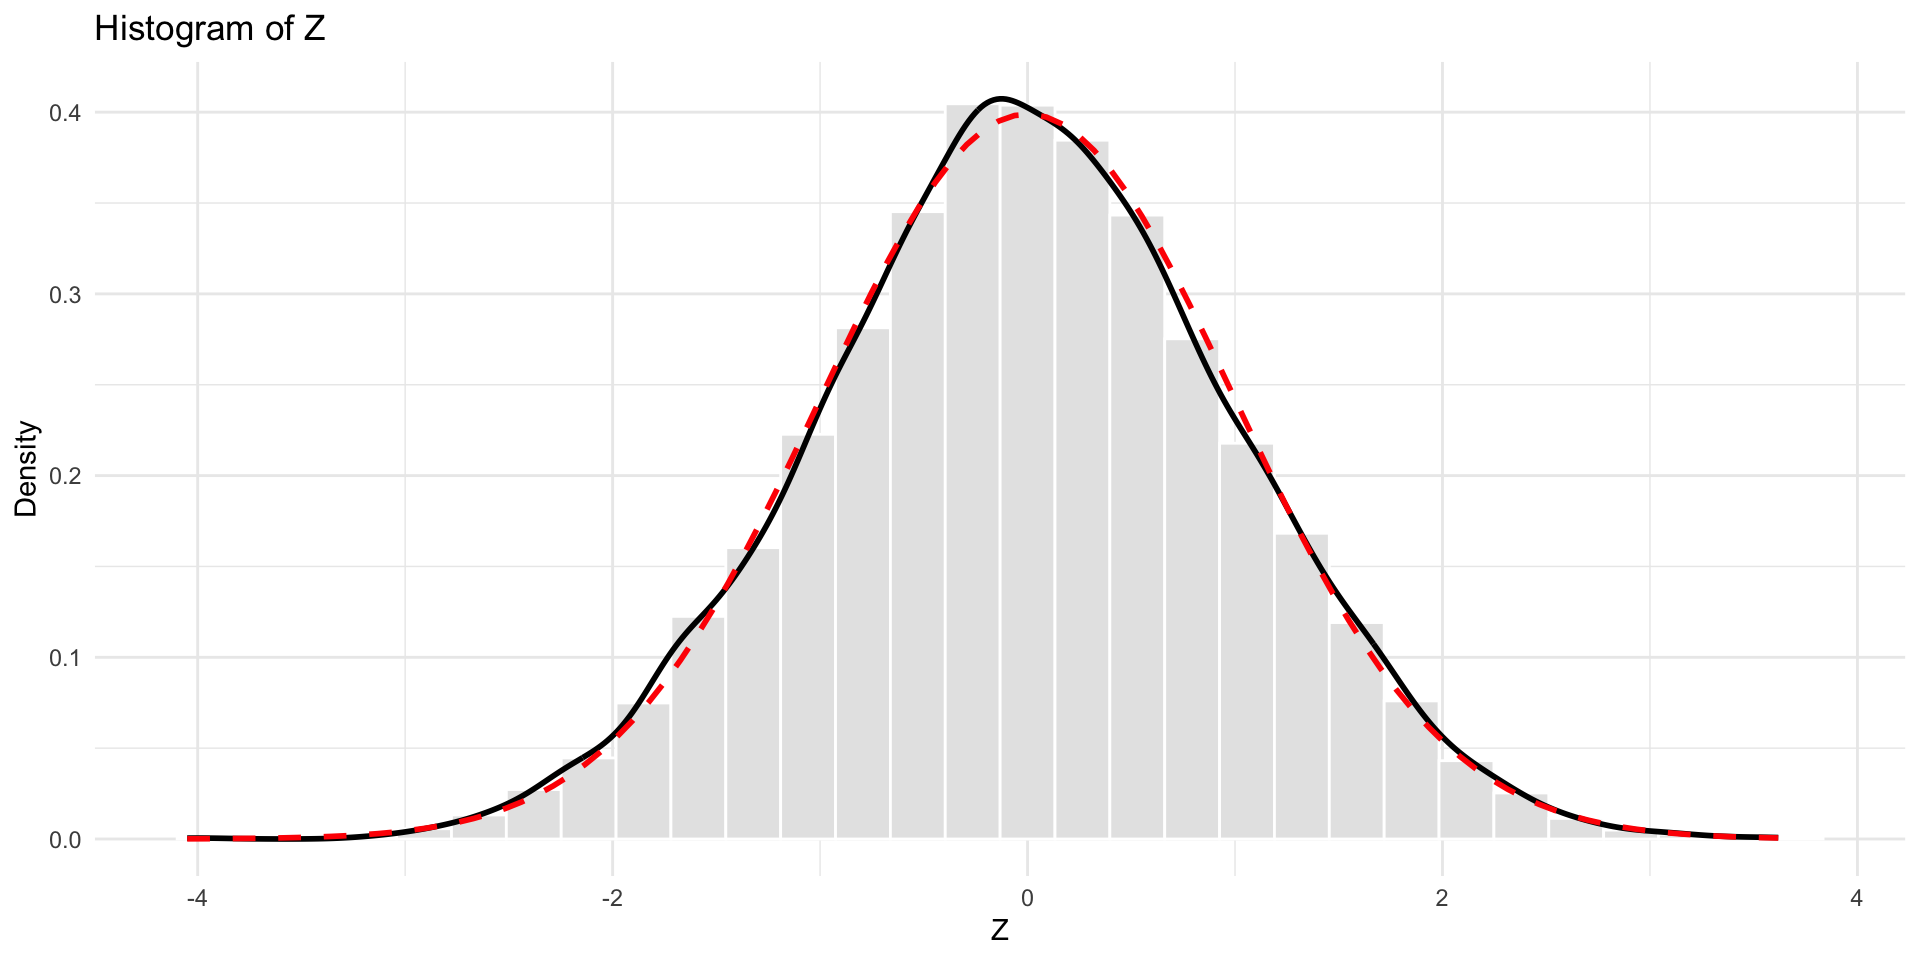
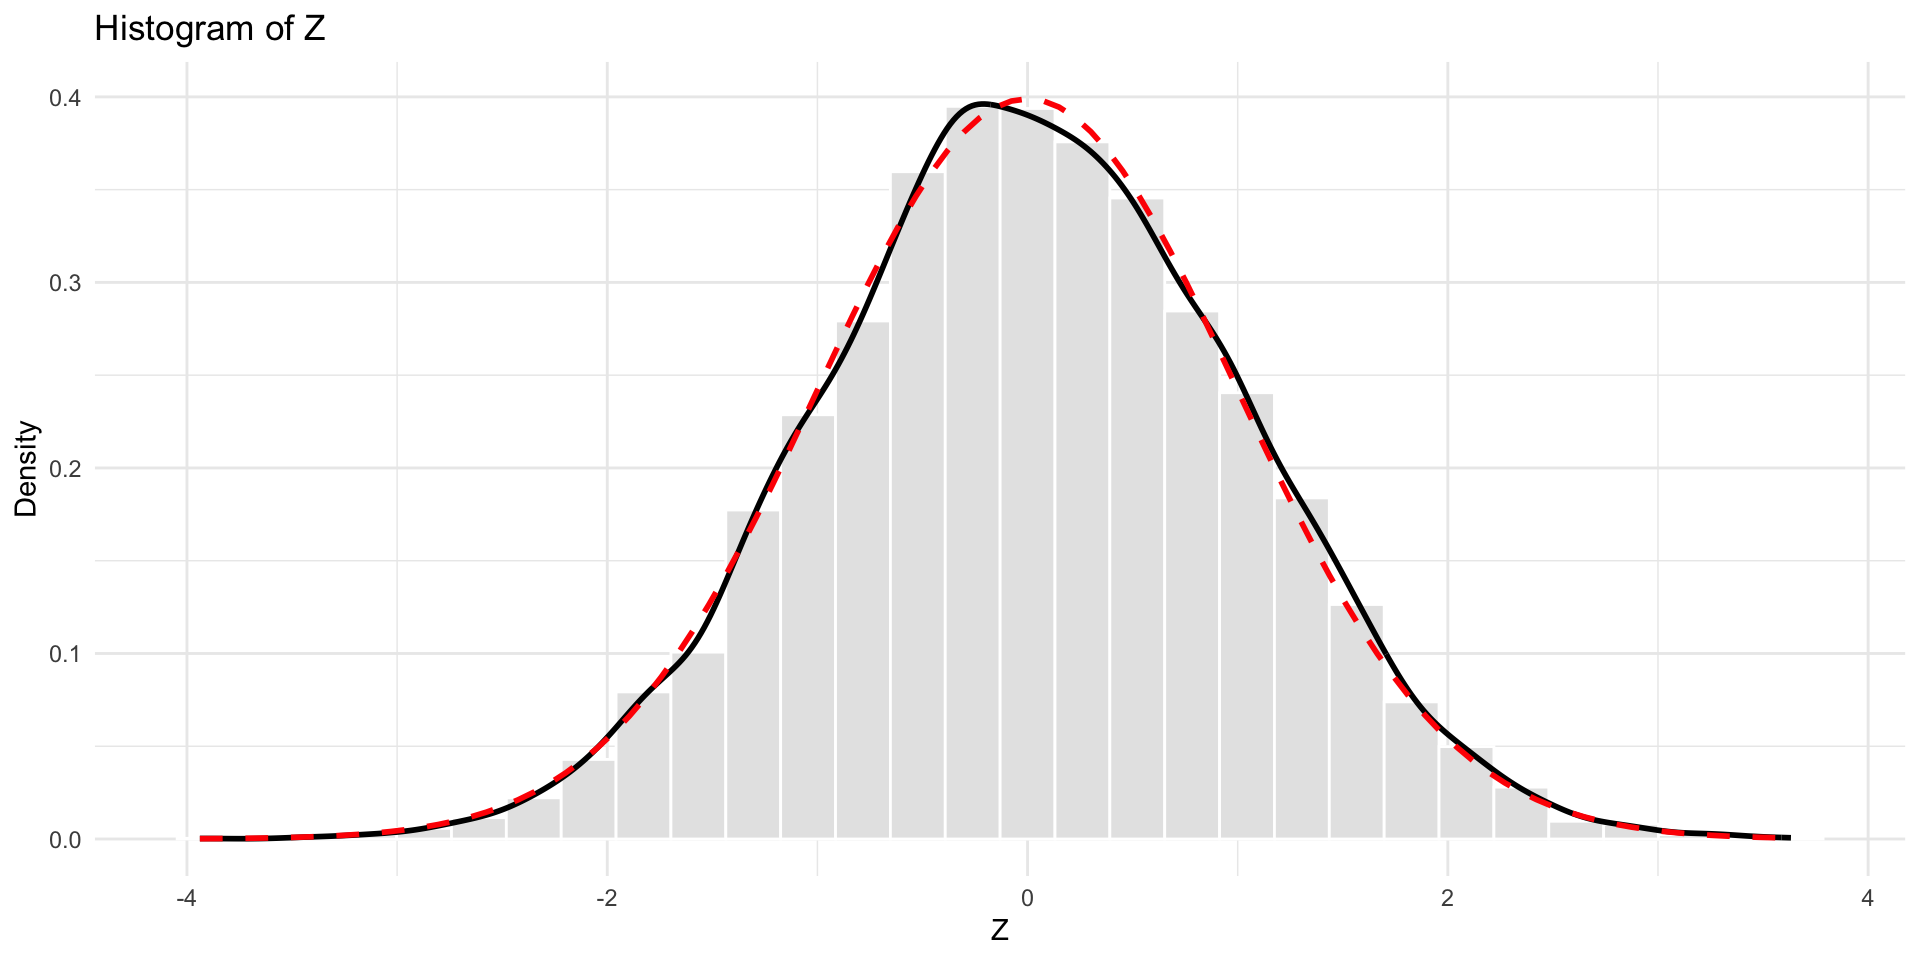
Update slides

diff --git a/docs/unit1-lect3.html b/docs/unit1-lect3.html
@@ -272,22 +272,22 @@
 <div class="code-copy-outer-scaffold"><div class="sourceCode cell-code" id="cb1"><pre class="sourceCode numberSource r number-lines code-with-copy"><code class="sourceCode r"><span id="cb1-1"><a></a>U<span class="ot">&lt;-</span><span class="fu">runif</span>(<span class="dv">10000</span>, <span class="dv">0</span>,<span class="dv">1</span>)</span>
 <span id="cb1-2"><a></a><span class="fu">head</span>(U, <span class="dv">25</span>)</span></code></pre></div><button title="Copy to Clipboard" class="code-copy-button"><i class="bi"></i></button></div>
 <div class="cell-output cell-output-stdout">
-<pre><code> [1] 0.09917466 0.19873888 0.91107296 0.18034093 0.22990421 0.01473255
- [7] 0.36201053 0.35353521 0.42074918 0.44553400 0.53369765 0.55343359
-[13] 0.56788955 0.66918928 0.51758747 0.60030990 0.96551891 0.25034516
-[19] 0.03299121 0.30767756 0.83395037 0.15374975 0.72974314 0.34551738
-[25] 0.05465245</code></pre>
+<pre><code> [1] 0.32441236 0.56355126 0.84076469 0.26797076 0.69033516 0.97579100
+ [7] 0.24214535 0.64079510 0.45448931 0.28216856 0.67918275 0.41649364
+[13] 0.83513271 0.15099610 0.92691326 0.16886967 0.53020949 0.04956552
+[19] 0.19395463 0.96597865 0.76374109 0.01728141 0.08489650 0.54245551
+[25] 0.70216479</code></pre>
 </div>
 </div>
 <div class="cell">
 <div class="code-copy-outer-scaffold"><div class="sourceCode cell-code" id="cb3"><pre class="sourceCode numberSource r number-lines code-with-copy"><code class="sourceCode r"><span id="cb3-1"><a></a>Z<span class="ot">&lt;-</span><span class="fu">qnorm</span>(U, <span class="dv">0</span>, <span class="dv">1</span>)</span>
 <span id="cb3-2"><a></a><span class="fu">head</span>(Z, <span class="dv">25</span>)</span></code></pre></div><button title="Copy to Clipboard" class="code-copy-button"><i class="bi"></i></button></div>
 <div class="cell-output cell-output-stdout">
-<pre><code> [1] -1.28626863 -0.84613443  1.34739179 -0.91406660 -0.73916235 -2.17720742
- [7] -0.35308989 -0.37579350 -0.19997726 -0.13695294  0.08456818  0.13434115
-[13]  0.17100365  0.43767563  0.04409954  0.25414933  1.81866752 -0.67340396
-[19] -1.83854311 -0.50244416  0.96989414 -1.02048290  0.61203634 -0.39745120
-[25] -1.60132522</code></pre>
+<pre><code> [1] -0.45539550  0.15997916  0.99760567 -0.61896181  0.49680060  1.97368122
+ [7] -0.69941823  0.36058486 -0.11432694 -0.57641143  0.46541470 -0.21087183
+[13]  0.97464865 -1.03217061  1.45318107 -0.95864157  0.07579646 -1.64908106
+[19] -0.86341515  1.82472397  0.71838843 -2.11344355 -1.37286923  0.10662187
+[25]  0.53063691</code></pre>
 </div>
 </div>
 </section>
@@ -365,12 +365,12 @@
 <span id="cb5-5"><a></a><span class="fu">prop.table</span>(<span class="fu">table</span>(Z1))[<span class="dv">2</span>]</span></code></pre></div><button title="Copy to Clipboard" class="code-copy-button"><i class="bi"></i></button></div>
 <div class="cell-output cell-output-stdout">
 <pre><code>     1 
-0.5046 </code></pre>
+0.5004 </code></pre>
 </div>
 <div class="code-copy-outer-scaffold"><div class="sourceCode cell-code" id="cb7"><pre class="sourceCode numberSource r number-lines code-with-copy"><code class="sourceCode r"><span id="cb7-1"><a></a><span class="fu">prop.table</span>(<span class="fu">table</span>(Z1, Z2), <span class="at">margin=</span><span class="dv">1</span>)[<span class="dv">2</span>, ]</span></code></pre></div><button title="Copy to Clipboard" class="code-copy-button"><i class="bi"></i></button></div>
 <div class="cell-output cell-output-stdout">
 <pre><code>        0         1 
-0.7439556 0.2560444 </code></pre>
+0.7396083 0.2603917 </code></pre>
 </div>
 </div>
 </section>
@@ -416,7 +416,7 @@ lm(formula = Z2 ~ Z1 + I(Z1^2))
 
 Coefficients:
 (Intercept)           Z1      I(Z1^2)  
-    -0.2794       0.3113       1.9627  </code></pre>
+   -0.06174      0.54997      1.79808  </code></pre>
 </div>
 </div>
 </section>
@@ -444,12 +444,12 @@ Coefficients:
 <span id="cb11-6"><a></a>fit <span class="ot">&lt;-</span> <span class="fu">lm</span>(Z2 <span class="sc">~</span> Z1 <span class="sc">+</span> <span class="fu">I</span>(Z1<span class="sc">^</span><span class="dv">2</span>), <span class="at">data =</span> df)</span>
 <span id="cb11-7"><a></a><span class="fu">coef</span>(fit)[<span class="st">"I(Z1^2)"</span>]</span></code></pre></div><button title="Copy to Clipboard" class="code-copy-button"><i class="bi"></i></button></div>
 <div class="cell-output cell-output-stdout">
-<pre><code>I(Z1^2) 
-1.96272 </code></pre>
+<pre><code> I(Z1^2) 
+1.798078 </code></pre>
 </div>
 <div class="code-copy-outer-scaffold"><div class="sourceCode cell-code" id="cb13"><pre class="sourceCode numberSource r number-lines code-with-copy"><code class="sourceCode r"><span id="cb13-1"><a></a><span class="fu">summary</span>(fit)<span class="sc">$</span>coefficients[<span class="st">"I(Z1^2)"</span>, <span class="st">"Std. Error"</span>]</span></code></pre></div><button title="Copy to Clipboard" class="code-copy-button"><i class="bi"></i></button></div>
 <div class="cell-output cell-output-stdout">
-<pre><code>[1] 0.1953438</code></pre>
+<pre><code>[1] 0.1558817</code></pre>
 </div>
 </div>
 </section>
@@ -482,27 +482,27 @@ Coefficients:
 <span id="cb15-23"><a></a>}</span>
 <span id="cb15-24"><a></a><span class="fu">mean</span>(beta_0_hat <span class="sc">-</span> <span class="dv">0</span>)</span></code></pre></div><button title="Copy to Clipboard" class="code-copy-button"><i class="bi"></i></button></div>
 <div class="cell-output cell-output-stdout">
-<pre><code>[1] -0.003695087</code></pre>
+<pre><code>[1] 0.00204667</code></pre>
 </div>
 <div class="code-copy-outer-scaffold"><div class="sourceCode cell-code" id="cb17"><pre class="sourceCode numberSource r number-lines code-with-copy"><code class="sourceCode r"><span id="cb17-1"><a></a><span class="fu">mean</span>(se_beta0<span class="sc">-</span><span class="fu">sd</span>(beta_0_hat))</span></code></pre></div><button title="Copy to Clipboard" class="code-copy-button"><i class="bi"></i></button></div>
 <div class="cell-output cell-output-stdout">
-<pre><code>[1] -0.001819115</code></pre>
+<pre><code>[1] -0.00118877</code></pre>
 </div>
 <div class="code-copy-outer-scaffold"><div class="sourceCode cell-code" id="cb19"><pre class="sourceCode numberSource r number-lines code-with-copy"><code class="sourceCode r"><span id="cb19-1"><a></a><span class="fu">mean</span>(beta_1_hat <span class="sc">-</span> <span class="fl">0.5</span>)</span></code></pre></div><button title="Copy to Clipboard" class="code-copy-button"><i class="bi"></i></button></div>
 <div class="cell-output cell-output-stdout">
-<pre><code>[1] 0.002159592</code></pre>
+<pre><code>[1] -0.0002857729</code></pre>
 </div>
 <div class="code-copy-outer-scaffold"><div class="sourceCode cell-code" id="cb21"><pre class="sourceCode numberSource r number-lines code-with-copy"><code class="sourceCode r"><span id="cb21-1"><a></a><span class="fu">mean</span>(se_beta1<span class="sc">-</span><span class="fu">sd</span>(beta_1_hat))</span></code></pre></div><button title="Copy to Clipboard" class="code-copy-button"><i class="bi"></i></button></div>
 <div class="cell-output cell-output-stdout">
-<pre><code>[1] -0.00165578</code></pre>
+<pre><code>[1] -0.0001139117</code></pre>
 </div>
 <div class="code-copy-outer-scaffold"><div class="sourceCode cell-code" id="cb23"><pre class="sourceCode numberSource r number-lines code-with-copy"><code class="sourceCode r"><span id="cb23-1"><a></a><span class="fu">mean</span>(beta_2_hat <span class="sc">-</span> <span class="dv">2</span>)</span></code></pre></div><button title="Copy to Clipboard" class="code-copy-button"><i class="bi"></i></button></div>
 <div class="cell-output cell-output-stdout">
-<pre><code>[1] 0.0007921485</code></pre>
+<pre><code>[1] -0.0002417659</code></pre>
 </div>
 <div class="code-copy-outer-scaffold"><div class="sourceCode cell-code" id="cb25"><pre class="sourceCode numberSource r number-lines code-with-copy"><code class="sourceCode r"><span id="cb25-1"><a></a><span class="fu">mean</span>(se_beta2<span class="sc">-</span><span class="fu">sd</span>(beta_2_hat))</span></code></pre></div><button title="Copy to Clipboard" class="code-copy-button"><i class="bi"></i></button></div>
 <div class="cell-output cell-output-stdout">
-<pre><code>[1] -0.001903839</code></pre>
+<pre><code>[1] -0.002098388</code></pre>
 </div>
 </div>
 </section>
